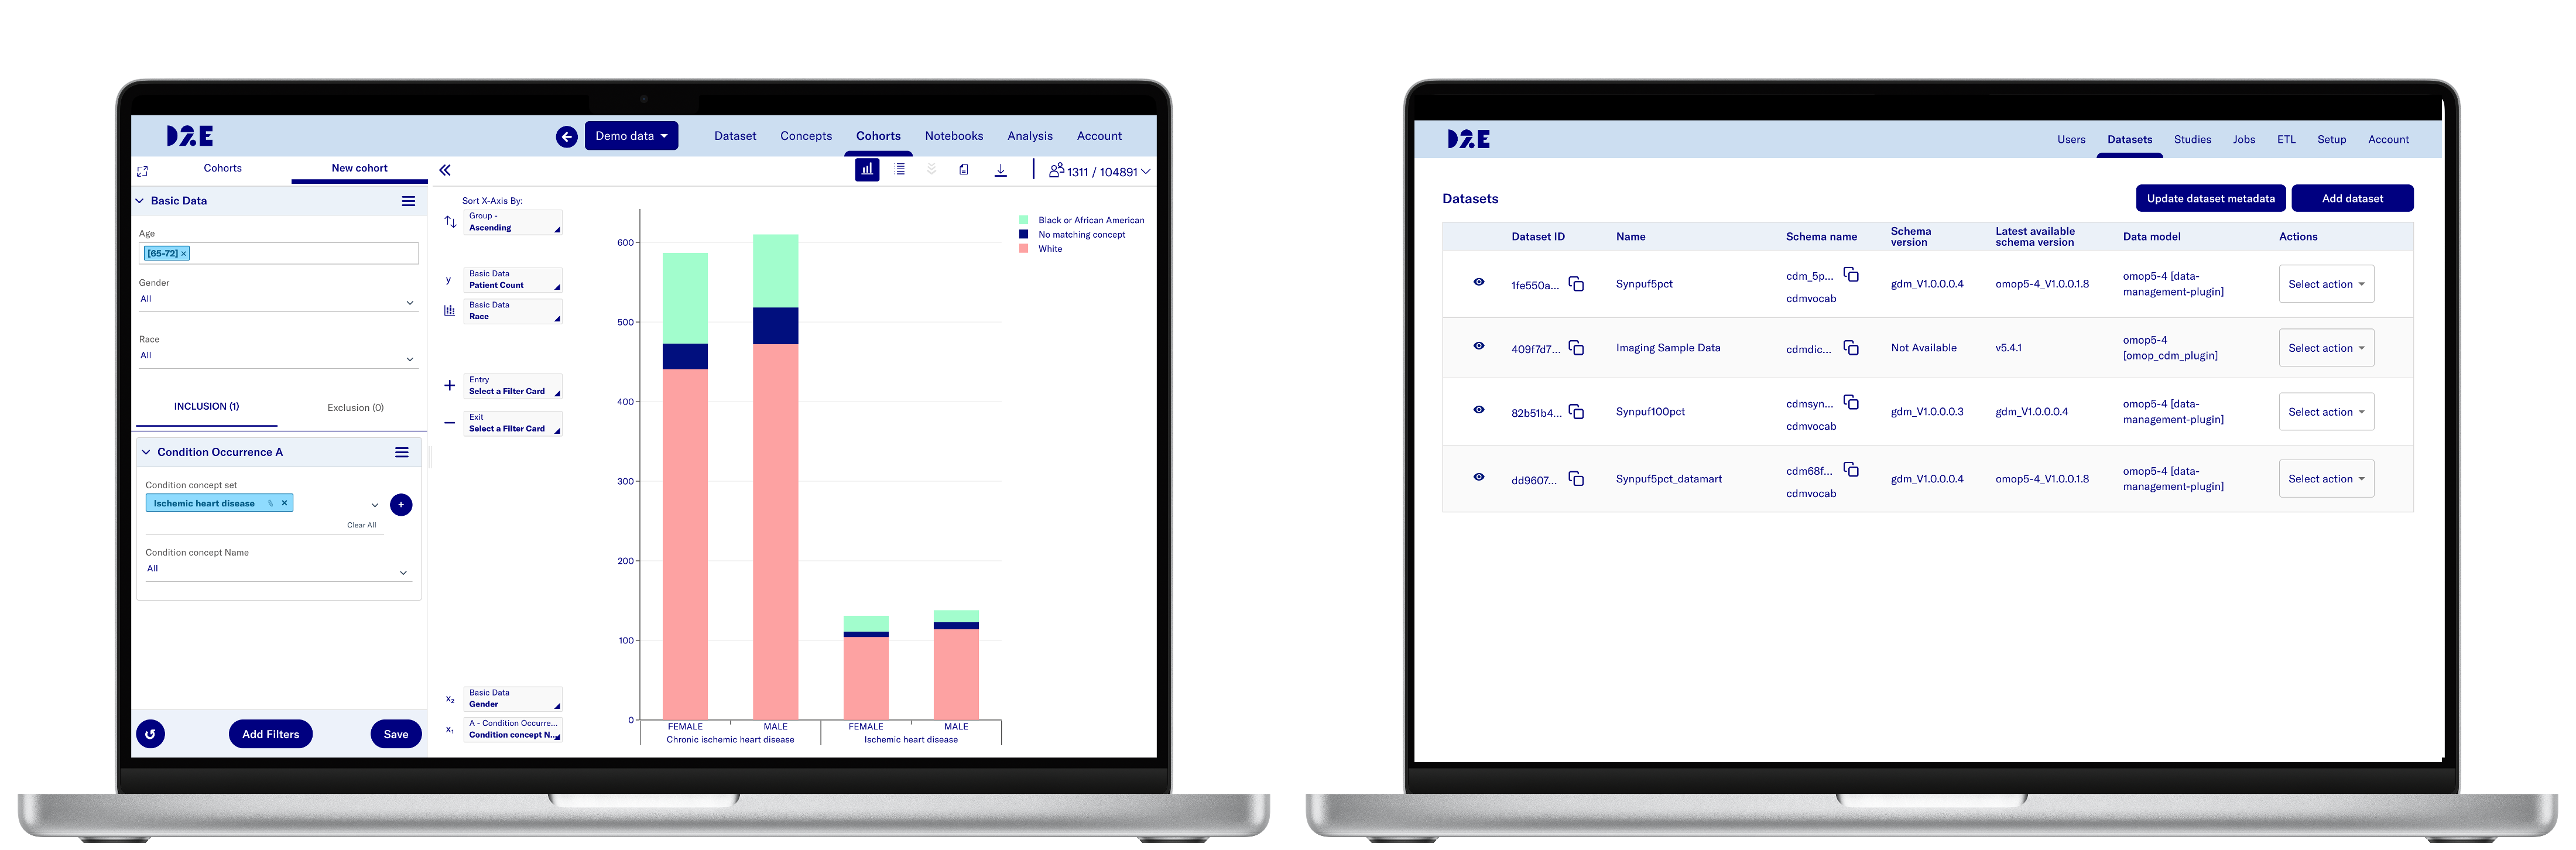
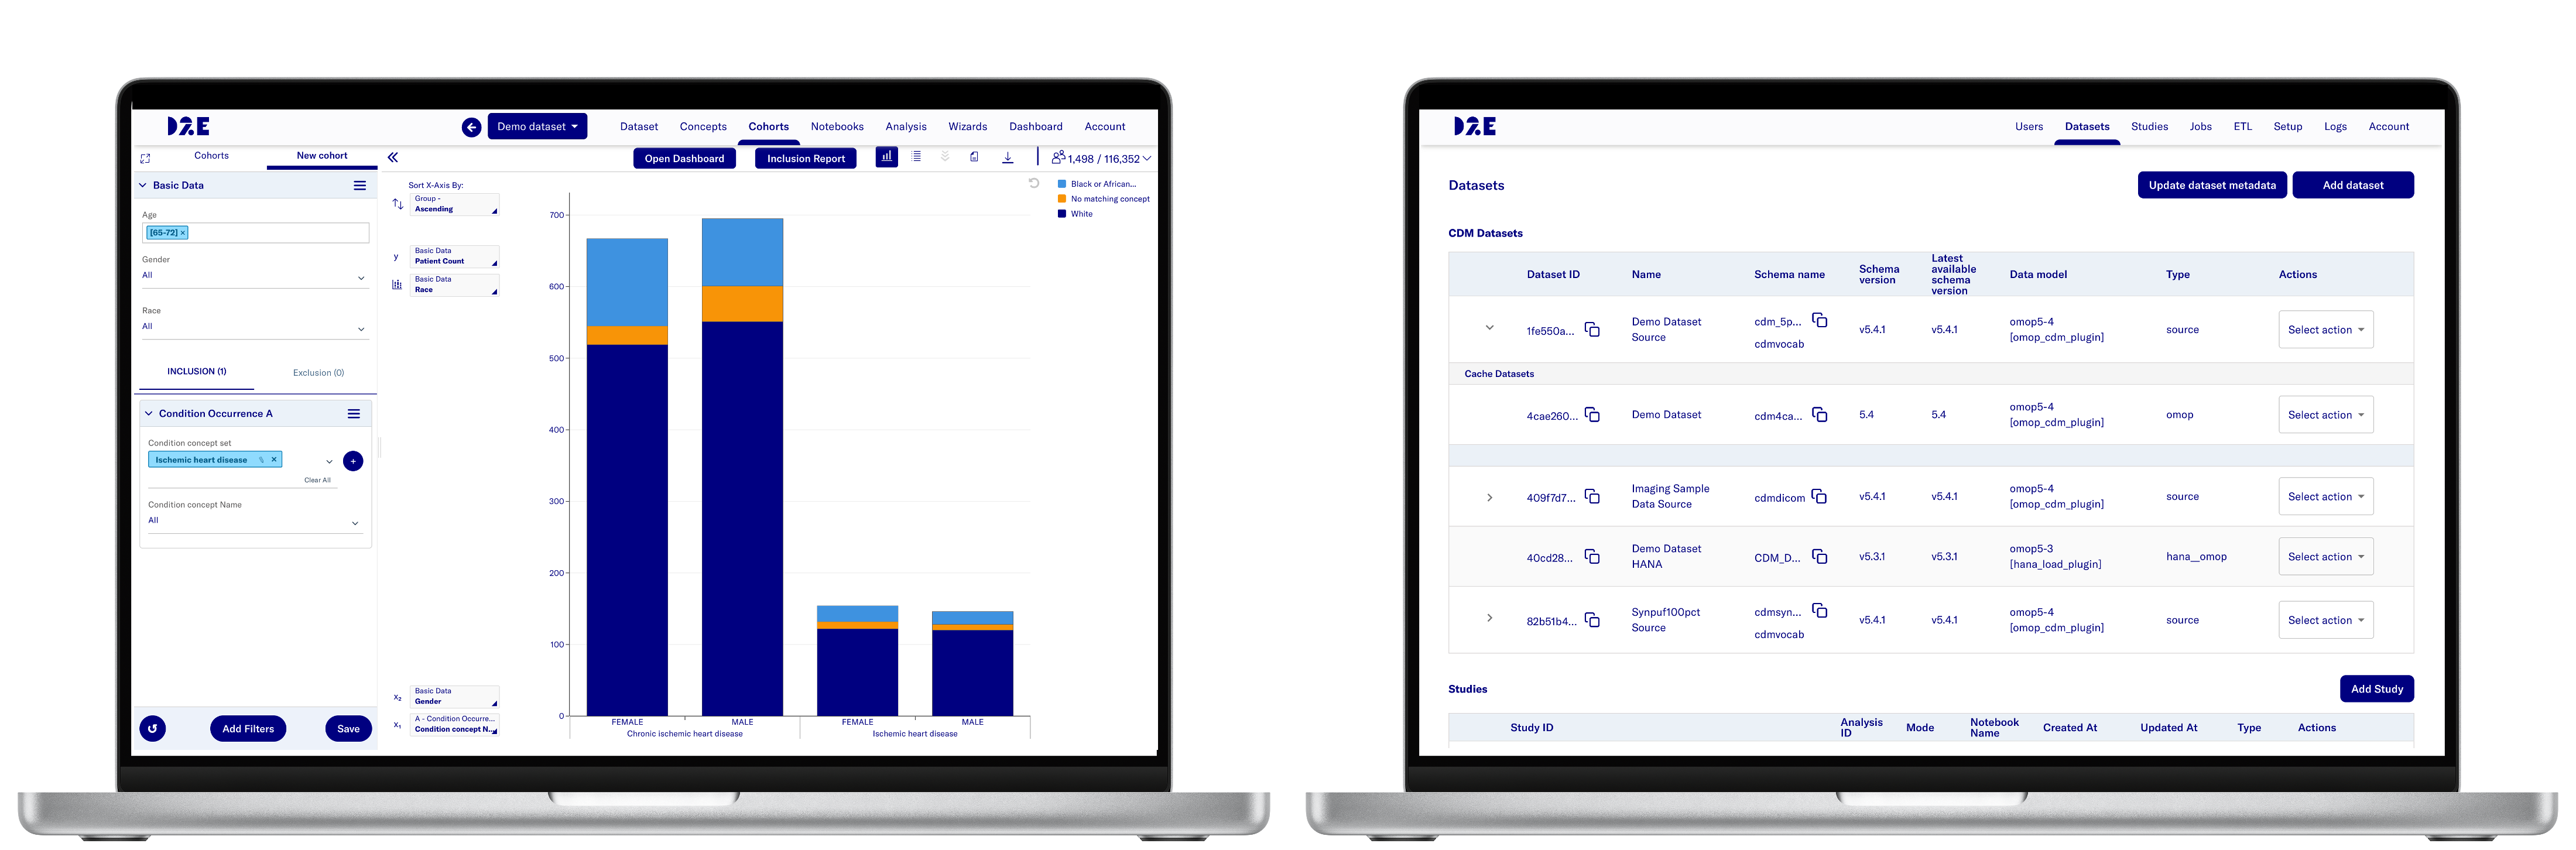
Update screenshots, Slack URL

diff --git a/README.md b/README.md
@@ -12,7 +12,7 @@
 [![License: Apache-2.0](https://img.shields.io/badge/License-Apache_2.0-d9dbec.svg)](LICENSE)
 [![Website](https://img.shields.io/badge/Website-data2evidence.org-d9dbec)](https://data2evidence.org)
 [![Docs](https://img.shields.io/badge/Docs-Getting_Started-d9dbec)](https://data2evidence.org/docs/getting_started/)
-[![Community](https://img.shields.io/badge/Chat-Discord-d9dbec?logo=Discord&logoColor=FFFFFF)](https://data2evidence.org/discord)
+[![Commuity](https://img.shields.io/badge/Community-Slack-d9dbec)](https://join.slack.com/t/data2evidence/shared_invite/zt-3vabnh2qr-vMev2VfLI2Sl1YA27gGVig)
 [![GitHub Activity](https://img.shields.io/github/commit-activity/m/ohdsi/d2e?label=Commit%20activty&logo=github&color=d9dbec)](https://github.com/ohdsi/d2e/graphs/contributors)
 [![D2E CLI Version](https://img.shields.io/npm/v/d2e?label=D2E%20installer&logo=npm&color=d9dbec)](https://www.npmjs.com/package/d2e)
 
@@ -143,9 +143,9 @@ functions/  → Analytical utilities and notebook helpers
 |-|-|-|
 | [![d2e/cli build and publish](https://github.com/ohdsi/d2e/actions/workflows/cli-setup-npm.yml/badge.svg)](https://github.com/ohdsi/d2e/actions/workflows/cli-setup-npm.yml) |  [![d2e-functions build plugin](https://github.com/ohdsi/d2e/actions/workflows/functions-plugin-ci.yml/badge.svg)](https://github.com/ohdsi/d2e/actions/workflows/functions-plugin-ci.yml) | [![d2e-ui build plugin](https://github.com/ohdsi/d2e/actions/workflows/ui-plugin-ci.yml/badge.svg)](https://github.com/ohdsi/d2e/actions/workflows/ui-plugin-ci.yml)  |  
 | [![d2e Docker Build](https://github.com/OHDSI/d2e/actions/workflows/docker-build-push.yaml/badge.svg)](https://github.com/OHDSI/d2e/actions/workflows/docker-build-push.yaml) | [![d2e-functions/pa Run HTTP tests](https://github.com/ohdsi/d2e/actions/workflows/functions-http-tests.yml/badge.svg)](https://github.com/ohdsi/d2e/actions/workflows/functions-http-tests.yml)  | [![d2e-ui/pa (vue)](https://github.com/ohdsi/d2e/actions/workflows/ui-test-vue.yml/badge.svg)](https://github.com/ohdsi/d2e/actions/workflows/ui-test-vue.yml)   |  
-| [![d2e/services Docker Compose Up](https://github.com/ohdsi/d2e/actions/workflows/services-docker-compose-up.yml/badge.svg)](https://github.com/ohdsi/d2e/actions/workflows/services-docker-compose-up.yml)| [![Run Authorization Tests](https://github.com/OHDSI/d2e/actions/workflows/trex-authz-tests.yml/badge.svg)](https://github.com/OHDSI/d2e/actions/workflows/trex-authz-tests.yml) | [![d2e-ui/portal unit tests (Frontend)](https://github.com/ohdsi/d2e/actions/workflows/ui-alp-portal-test-fe.yml/badge.svg)](https://github.com/ohdsi/d2e/actions/workflows/ui-alp-portal-test-fe.yml)  |
+| [![d2e/services envConverter unit tests](https://github.com/ohdsi/d2e/actions/workflows/services-env-converter-test.yml/badge.svg)](https://github.com/ohdsi/d2e/actions/workflows/services-env-converter-test.yml)| [![Run Authorization Tests](https://github.com/OHDSI/d2e/actions/workflows/trex-authz-tests.yml/badge.svg)](https://github.com/OHDSI/d2e/actions/workflows/trex-authz-tests.yml) | [![d2e-ui/portal unit tests (Frontend)](https://github.com/ohdsi/d2e/actions/workflows/ui-alp-portal-test-fe.yml/badge.svg)](https://github.com/ohdsi/d2e/actions/workflows/ui-alp-portal-test-fe.yml)  |
 |[![d2e/services Cachedb tests](https://github.com/ohdsi/d2e/actions/workflows/services-cachedb-test.yml/badge.svg)](https://github.com/ohdsi/d2e/actions/workflows/services-cachedb-test.yml)|  **Flows**  | [![d2e-ui/portal unit tests (Components Library)](https://github.com/ohdsi/d2e/actions/workflows/ui-alp-portal-test-components.yml/badge.svg)](https://github.com/ohdsi/d2e/actions/workflows/ui-alp-portal-test-components.yml) |
-|[![d2e/services envConverter unit tests](https://github.com/ohdsi/d2e/actions/workflows/services-env-converter-test.yml/badge.svg)](https://github.com/ohdsi/d2e/actions/workflows/services-env-converter-test.yml)| [![d2e-flows build plugin](https://github.com/ohdsi/d2e/actions/workflows/flows-plugin-ci.yml/badge.svg)](https://github.com/ohdsi/d2e/actions/workflows/flows-plugin-ci.yml) | [![d2e-ui/pyqe unit tests](https://github.com/ohdsi/d2e/actions/workflows/ui-pyqe-test.yml/badge.svg)](https://github.com/ohdsi/d2e/actions/workflows/ui-pyqe-test.yml) |  
+| | [![d2e-flows build plugin](https://github.com/ohdsi/d2e/actions/workflows/flows-plugin-ci.yml/badge.svg)](https://github.com/ohdsi/d2e/actions/workflows/flows-plugin-ci.yml) | [![d2e-ui/pyqe unit tests](https://github.com/ohdsi/d2e/actions/workflows/ui-pyqe-test.yml/badge.svg)](https://github.com/ohdsi/d2e/actions/workflows/ui-pyqe-test.yml) |  
 
 ## Contributing  
 
@@ -154,6 +154,10 @@ We welcome community contributions!
 1. Open issues or feature requests on GitHub  
 2. Submit pull requests  
 3. Join our [Discord](https://data2evidence.org/discord) for discussions  
+
+## Citing  
+
+If you use Data2Evidence in your research, please cite it using the metadata in [CITATION.cff](CITATION.cff). GitHub provides a "Cite this repository" shortcut in the sidebar that generates APA and BibTeX entries from this file.
 
 ## License  
 